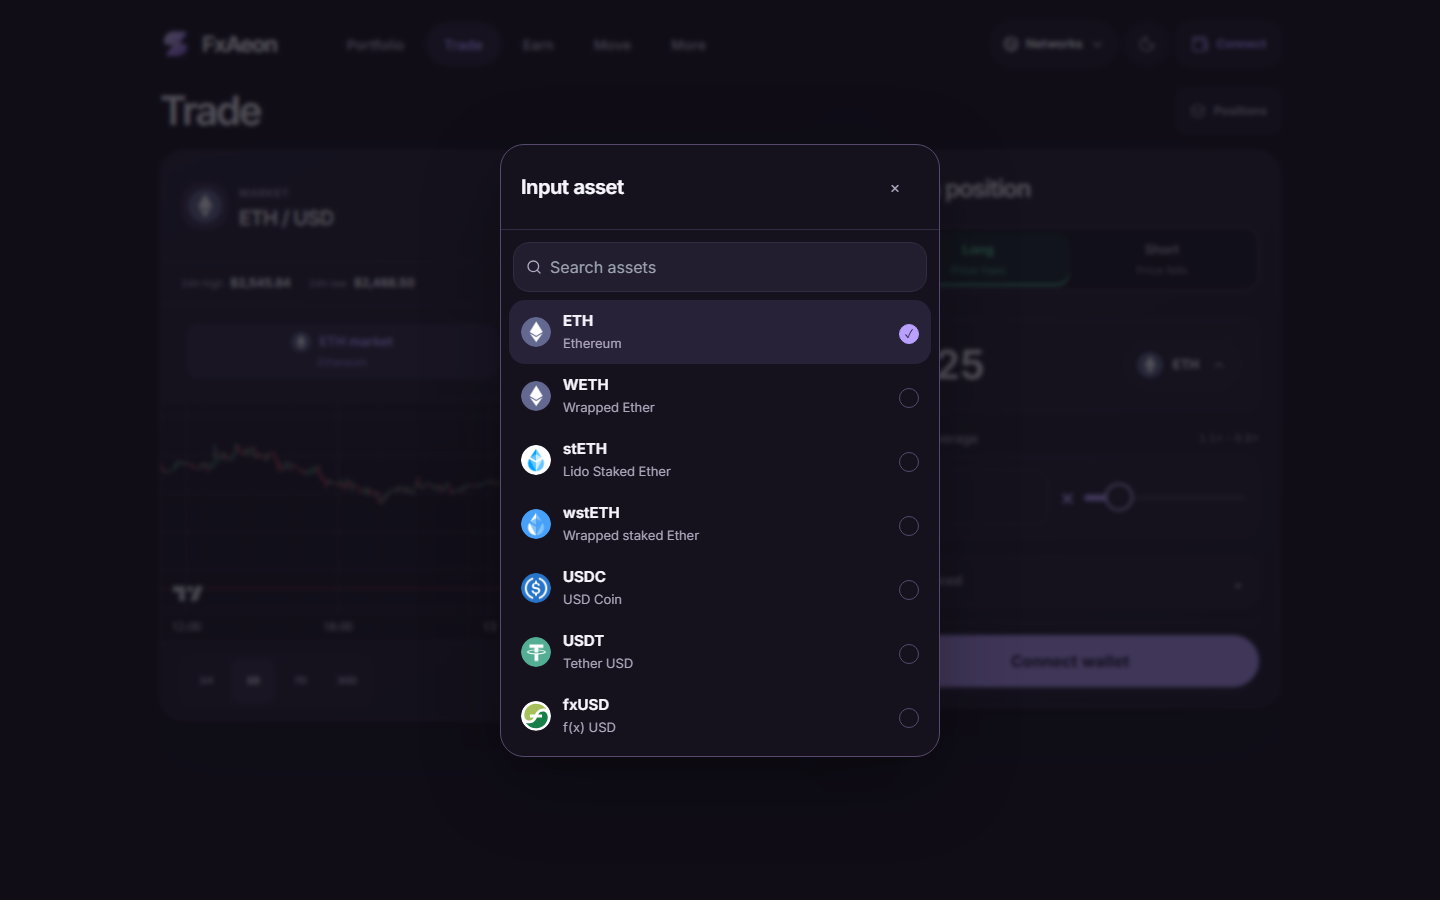
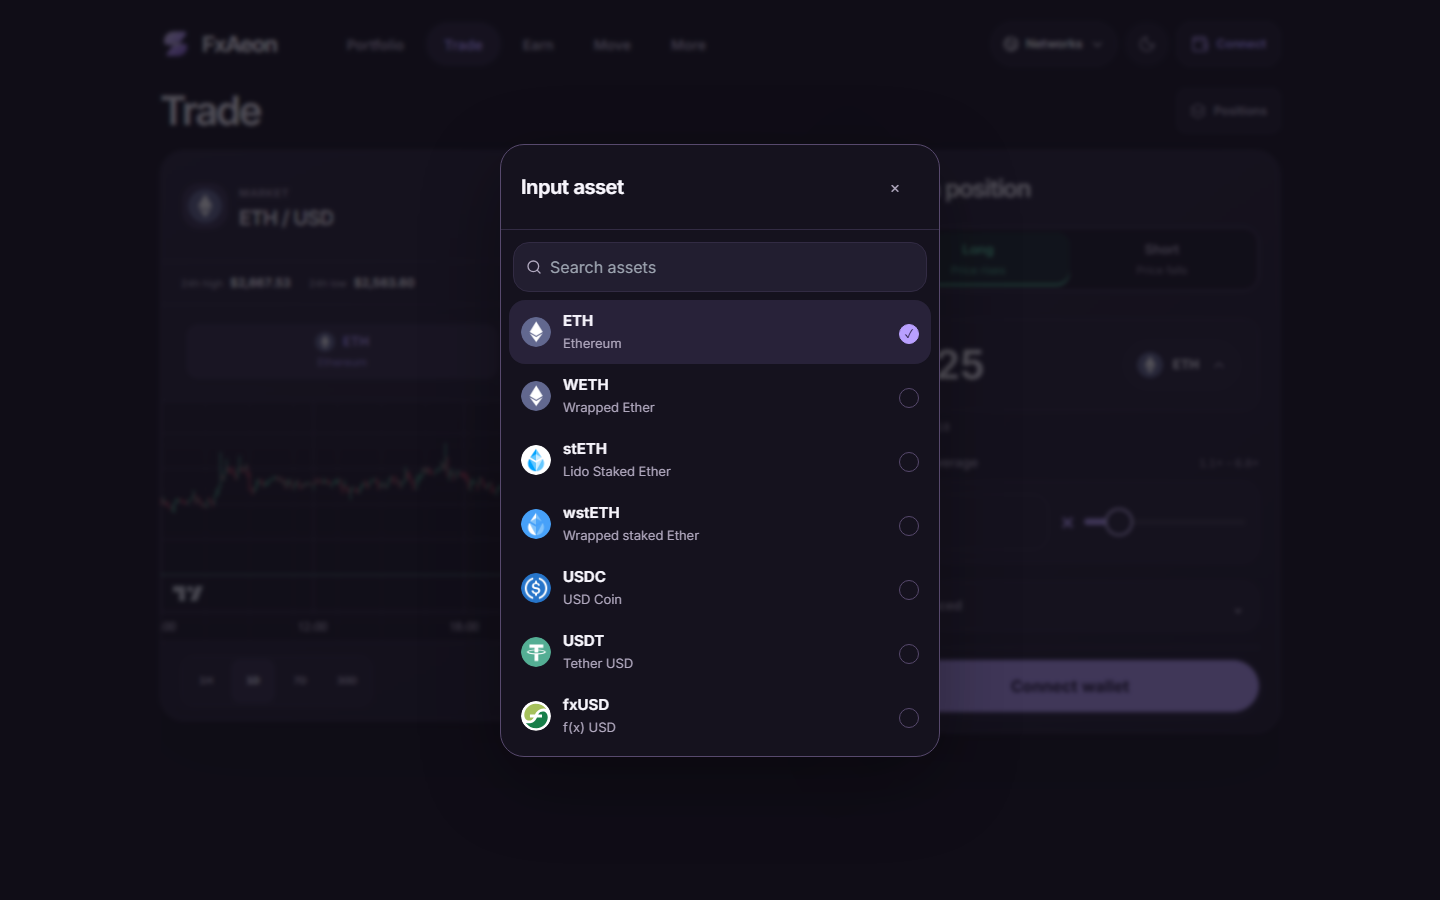
docs: refresh current app screenshots and release evidence

Changed region(s): [[0.6562, 0.6844, 0.875, 0.8089], [0.75, 0.5289, 0.7812, 0.5911]]

diff --git a/docs/testing.md b/docs/testing.md
@@ -28,17 +28,18 @@ prices/charts, while position ownership and accounting come from the fork. The
 standalone `pnpm docs:screenshots:positions` command is a separate Node-runner
 capture path; it proves rendered fork state, not browser transaction execution.
 
-Final verification completed across the aggregate run and a separate browser
-rerun. `%TEMP%/fxaeon-final-release-verify-latest.log` records `380` source/unit
-checks (`376` passed, `4` skipped) and passing build/export, typecheck, bundle,
-frontend-secret scan, audit, and landing checks (eight static plus 14
-theme/viewport states). Its initial browser stage reached `108/109` and exited
-`1`. After test-only hardening of stale-preview test scheduling, the focused
-harness passed `3/3` across two workers and the complete built-artifact browser
-suite passed `109/109` in 5.8 minutes; see
-`%TEMP%/fxaeon-final-109-e2e-identity.log`. Final lint passed with zero
-warnings. These results span separate runs; no single aggregate command exited
-`0`.
+Final verification passed on PR `#193` head
+`064229b6fb6640f9d16087ab48da13e85b05f356`: all six CI checks passed, including
+Client CI's full `pnpm verify` with exit code `0` and built-artifact browser
+E2E. The earlier local aggregate counted `380` source/unit checks (`376` passed,
+`4` skipped); its initial browser attempt reached `108/109` and exited `1` on
+stale-preview test scheduling. After test-only scheduling hardening, the
+focused harness passed `3/3` across two workers and the complete browser suite
+passed `109/109` in 5.8 minutes; see
+`%TEMP%/fxaeon-final-109-e2e-identity.log`. Full and production dependency
+audits report zero known vulnerabilities. Two pre-existing high-severity
+development-dependency findings were resolved by updating `js-yaml` to `4.3.2`
+and Miniflare's nested `sharp` to `0.35.4`. Final lint passed with zero warnings.
 Native Privy and Telegram flows, device-specific wallet behavior, and bridge
 destination delivery remain unverified.
 
@@ -196,7 +197,7 @@ The browser suite deliberately keeps accessibility checks dependency-light: rout
 
 ## Documentation captures
 
-The standard capture command covers the Portfolio app home, compatibility Portfolio route, Trade workspace, token picker, Move, the standalone login setup screen, disconnected Portfolio, and 390 × 844 mobile Trade/Portfolio views. Normal wallet connection, account switching, and disconnect remain in-place app-shell flows; the login capture is a dedicated setup-state reference. Mobile Portfolio uses the light theme; the other standard views use the Official violet theme. Start the static export locally, then run `pnpm docs:screenshots` in another terminal. `FX_SCREENSHOT_BASE_URL` can select a different loopback HTTP origin; it defaults to `http://localhost:4321`.
+The standard capture command covers app home, Trade, token picker, Move, the standalone login setup screen, the compatibility Portfolio route, Docs, and 390 × 844 mobile Trade/Portfolio views. Normal wallet connection, account switching, and disconnect remain in-place app-shell flows; the login capture is a dedicated setup-state reference. Mobile Portfolio uses the light theme; the other standard views use the Official violet theme. Start the static export locally, then run `pnpm docs:screenshots` in another terminal. `FX_SCREENSHOT_BASE_URL` can select a different loopback HTTP origin; it defaults to `http://localhost:4321`.
 
 ```powershell
 pnpm build
@@ -207,14 +208,12 @@ pnpm docs:screenshots
 
 The capture helper waits for configured login readiness and visible candle
 pixels, reports app runtime errors separately from external quote failures, and
-excludes the development toolbar only after page assertions. The latest
-recapture did not complete or promote: it saved Web, Trade, token-picker, Bridge,
-and login views, then Portfolio's two-sparkline readiness timed out after 60
-seconds on a reused page. A fresh isolated page displayed both charts without
-runtime errors, but a separate diagnostic observed a CoinGecko fallback CORS
-failure, so there is no clean nine-view result. The existing standard images
-and manifest remain unchanged; the landing's connected-position aliases are
-separate browser-fork evidence.
+excludes the development toolbar only after page assertions. The nine promoted
+captures were completed on 20 September 2026, each in a fresh page and browser
+context, using live external display data. The standard manifest records zero
+page, console, external-fallback, unclassified-console, and discovery errors.
+The images document rendered UI states; no wallet transaction was submitted.
+The landing's connected-position aliases are separate browser-fork evidence.
 
 Display prices and CoinGecko history are unmodified external data by default. Unavailable providers produce the application's honest unavailable states. For deterministic design regression only, set `FX_SCREENSHOT_MARKET_DATA=fixture`; every resulting image is visibly labelled **Illustrative prices & charts**, and the capture report records that mode. Synthetic display data is never execution, oracle, PnL, or return evidence.
 

diff --git a/docs/implementation-progress.md b/docs/implementation-progress.md
@@ -47,6 +47,16 @@ the fork snapshot. The run log is
 This proves the named funded fork lifecycle. It does not prove native Privy,
 Telegram, device-specific wallet behavior, or bridge destination delivery.
 
+### Standard UI documentation captures
+
+The nine standard screenshots in `docs/assets/` were refreshed on 20 September
+2026 at `2026-09-20T05:56:32Z`, using a fresh page and browser context for each
+view and live external display data. The manifest
+`docs/fixtures/standard-screenshot-manifest.json` records the routes, viewports,
+hashes, and zero page, console, fallback, or discovery errors. No wallet
+transaction was submitted. These screenshots document rendered UI states and
+are separate from the fork-backed position evidence below.
+
 ### Position documentation capture
 
 The promoted four-image capture is recorded in
@@ -55,13 +65,7 @@ The promoted four-image capture is recorded in
 visibly labelled illustrative display prices/charts. The four app screenshots
 and desktop/mobile landing aliases are hash-validated against that manifest.
 The images show fork state, not production balances or real market prices. The
-remaining standard UI captures predate the current domain split and are not
-current visual release evidence. The latest standard recapture was not
-promoted: five views were saved before Portfolio's two-sparkline readiness
-check timed out on a reused page. A fresh isolated page displayed both charts
-without runtime errors. Existing standard images and their manifest remain
-unchanged; the landing's connected-position aliases are separate, current fork
-captures.
+landing's connected-position aliases are separate, current fork captures.
 
 ### Configured Privy theme hydration
 
@@ -81,32 +85,25 @@ The focused Portfolio asset-summary tests pass `14/14`, covering partial
 subtotals, stale-value exclusion, pending reads, unknown values, and confirmed
 zero. Portfolio typecheck passes after the supported-value card prop-shape fix.
 
-Final verification completed across the aggregate run and a separate browser
-rerun. `%TEMP%/fxaeon-final-release-verify-latest.log` records `380` source/unit
-checks (`376` passed, `4` skipped) and passing build/export, typecheck, bundle,
-frontend-secret scan, audit, and landing checks (eight static plus 14
-theme/viewport states). Its initial browser stage reached `108/109` and exited
-`1`. After test-only hardening of stale-preview test scheduling, the focused
-harness passed `3/3` across two workers and the complete built-browser suite
-passed `109/109` in 5.8 minutes; see
-`%TEMP%/fxaeon-final-109-e2e-identity.log`. Final lint passed with zero
-warnings. These are results across separate runs, not one aggregate command
-with exit code `0`.
+Final verification passed on PR `#193` head
+`064229b6fb6640f9d16087ab48da13e85b05f356`: all six CI checks passed, including
+Client CI's full `pnpm verify` with exit code `0` and built-browser E2E. After
+test-only hardening of stale-preview scheduling, focused checks passed `3/3`
+and the complete browser suite passed `109/109` in 5.8 minutes; see
+`%TEMP%/fxaeon-final-109-e2e-identity.log`. Full and production dependency
+audits report zero known vulnerabilities. Two pre-existing high-severity
+development-dependency findings were resolved by updating `js-yaml` to `4.3.2`
+and Miniflare's nested `sharp` to `0.35.4`. Final lint passed with zero warnings.
 
 The protocol, Earn, stress, and browser-fork proofs are separately recorded
 above. The landing's final full-hero wash and card direction passed visual
-review; 14 theme/width states retained the same contrast minima. The standard
-nine-view screenshot refresh remains incomplete; see the recapture note above.
-The landing's connected-position aliases are separately current.
+review; 14 theme/width states retained the same contrast minima.
 
 ## Remaining verification gaps
 
 - Verify native Privy sign-in, Telegram seamless login and handoff, injected
   wallet confirmation, keyboard/device behavior, and bridge destination
   delivery in their supported hosts.
-- Complete and review the standard UI screenshot refresh before publication.
-  The promoted landing position captures are already tied to their manifest and
-  illustrative market-data mode.
 
 See [`testing.md`](testing.md) for commands and evidence boundaries and
 [`position-screenshot-fixture.md`](position-screenshot-fixture.md) for the

diff --git a/README.md b/README.md
@@ -80,7 +80,7 @@
   </tr>
 </table>
 
-Standard UI captures document prior builds. The four populated position screenshots were refreshed from the successful browser gate at block `25965421`; their [manifest](docs/fixtures/position-screenshot-manifest.json) records the rendered states and visibly labelled illustrative prices/charts. They show fork-backed positions, not production balances or real market prices. See [capture provenance](docs/position-screenshot-fixture.md). [Mobile positions](docs/assets/fxaeon-positions-mobile.png) · [Connected Trade](docs/assets/fxaeon-trade-connected.png).
+The nine standard UI captures were refreshed on 20 September 2026 using live external display data; their [manifest](docs/fixtures/standard-screenshot-manifest.json) records routes, viewports, hashes, and zero page, console, fallback, or discovery errors. They document rendered app states and do not prove wallet transactions. The four populated position screenshots are separate browser-fork evidence from block `25965421`; their [manifest](docs/fixtures/position-screenshot-manifest.json) records fork-backed positions and visibly labelled illustrative prices/charts. They show fork state, not production balances or real market prices. See [capture provenance](docs/position-screenshot-fixture.md). [Mobile positions](docs/assets/fxaeon-positions-mobile.png) · [Connected Trade](docs/assets/fxaeon-trade-connected.png).
 
 ### Capabilities
 
@@ -232,15 +232,15 @@ screenshots use visibly labelled illustrative display data; the separate
 node-runner command is available for rendering fork state without browser
 transaction execution.
 
-Final verification completed across separate runs. The aggregate log
-`%TEMP%/fxaeon-final-release-verify-latest.log` records `380` source/unit checks
-(`376` passed, `4` skipped) and passing build/export, typecheck, bundle,
-frontend-secret scan, audit, and landing checks. Its first browser stage reached
-`108/109` and exited `1`; after test-only hardening of stale-preview scheduling,
-the focused harness passed `3/3` and the full built-browser suite passed
-`109/109` in 5.8 minutes (`%TEMP%/fxaeon-final-109-e2e-identity.log`). Final lint
-passed with zero warnings. These results span separate runs; no single aggregate
-invocation exited `0`.
+Final verification passed on PR `#193` head
+`064229b6fb6640f9d16087ab48da13e85b05f356`: all six CI checks passed, including
+Client CI's full `pnpm verify` with exit code `0` and built-browser E2E. Test-only
+hardening of stale-preview scheduling passed focused checks `3/3` and
+the full browser suite `109/109` in 5.8 minutes
+(`%TEMP%/fxaeon-final-109-e2e-identity.log`). Full and production dependency
+audits report zero known vulnerabilities. Two pre-existing high-severity
+development-dependency findings were resolved by updating `js-yaml` to `4.3.2`
+and Miniflare's nested `sharp` to `0.35.4`. Final lint passed with zero warnings.
 
 Separately, the all-suite protocol, Earn, and stress run passed `4/4` tests
 with no skips in `%TEMP%/fxaeon-final-all-fork.log`; the browser-fork proof

diff --git a/docs/launch-readiness.md b/docs/launch-readiness.md
@@ -35,16 +35,16 @@ The owner has deferred the full legal policy and Terms until official support is
 - `node apps/landing/build.mjs` and `node --test apps/landing/test/static.test.mjs`
 - Local landing requests: home, robots, sitemap, document CSS and icon return 200; a missing path returns the custom 404; preview includes CSP.
 
-Final verification completed across the aggregate run and a separate browser
-rerun. `%TEMP%/fxaeon-final-release-verify-latest.log` records 380 source/unit
-checks (376 passed, four skipped), successful build/export, typecheck, bundle,
-secret scan, audit and landing checks (eight static plus 14 theme/viewport
-states). Its initial browser stage reached 108/109 and exited `1`. After
-test-only hardening of stale-preview test scheduling, the focused harness passed
-3/3 across two workers and the full built-browser suite passed 109/109 in 5.8
-minutes; see `%TEMP%/fxaeon-final-109-e2e-identity.log`. Final lint passed with
-zero warnings. Results span separate runs; no single aggregate exited `0`. The
-follow-up source secret scan covered 153 files with zero findings, and
+Final verification passed on PR `#193` head
+`064229b6fb6640f9d16087ab48da13e85b05f356`: all six CI checks passed, including
+Client CI's full `pnpm verify` with exit code `0` and built-browser E2E. After
+test-only hardening of stale-preview scheduling, the focused harness passed 3/3
+and the full browser suite passed 109/109 in 5.8 minutes; see
+`%TEMP%/fxaeon-final-109-e2e-identity.log`. Full and production dependency
+audits report zero known vulnerabilities. Two pre-existing high-severity
+development-dependency findings were resolved by updating `js-yaml` to 4.3.2
+and Miniflare's nested `sharp` to 0.35.4. Final lint passed with zero warnings.
+The follow-up source secret scan covered 153 files with zero findings, and
 launch/privacy/scanner tests passed 4/4. The final landing theme/motion
 iteration passed eight static tests and all 14 theme/width browser states,
 including the independent final composite contrast review.
@@ -52,6 +52,11 @@ Current landing captures are
 `artifacts/landing/landing-390.png`, `landing-1440.png`,
 `landing-light-390.png`, `landing-light-1440.png`, and the two
 `landing-hero-390-{dark,light}.png` crops.
+The nine standard app documentation screenshots were refreshed with live
+external display data and verified zero runtime, fallback, or discovery errors;
+their routes, viewports, and hashes are in
+[`standard-screenshot-manifest.json`](fixtures/standard-screenshot-manifest.json).
+They are rendered UI documentation, separate from the funded browser-fork proof.
 
 `artifacts/current-polish/full-report.json` records 180 app captures across 15
 routes, six viewport sizes, and disconnected/connected wallet states. There were

diff --git a/docs/brand-assets.md b/docs/brand-assets.md
@@ -76,12 +76,13 @@ do not redraw the mark.
 
 The standard UI set is in [assets/](assets/) and listed in
 [standard-screenshot-manifest.json](fixtures/standard-screenshot-manifest.json).
-These captures predate the current domain split and polish pass, so they are
-reference artwork rather than current release evidence:
+The nine views were refreshed on 20 September 2026 with a fresh page and browser
+context per frame, using live external display data. The manifest records their
+routes, viewports, hashes, and zero page, console, fallback, or discovery errors.
+They document rendered UI states; no wallet transaction was submitted.
 
-- `fxaeon-web.png` — public landing, 1440 × 900
-- `fxaeon-trade.png`, `fxaeon-token-picker.png`, `fxaeon-bridge.png`, and `fxaeon-login.png` — desktop app states, 1440 × 900
-- `fxaeon-portfolio.png` and `fxaeon-docs.png` — desktop app states, 1440 × 900
+- `fxaeon-web.png` — app home (`/`), 1440 × 900
+- `fxaeon-trade.png`, `fxaeon-token-picker.png`, `fxaeon-bridge.png`, `fxaeon-login.png`, `fxaeon-portfolio.png`, and `fxaeon-docs.png` — desktop app states, 1440 × 900
 - `fxaeon-trade-mobile.png` and `fxaeon-portfolio-mobile.png` — mobile states, 390 × 844
 
 The four populated position images (`fxaeon-portfolio-positions.png`,
@@ -94,13 +95,10 @@ use the all-four-position browser capture (`fxaeon-positions.png` and
 `fxaeon-positions-mobile.png`). These images show fork state, not production
 balances or actual market-price evidence; the
 landing hero wash and card direction passed visual review after 14 theme/width
-states with unchanged contrast minima. The latest standard recapture stopped
-without promotion after saving five views (web, Trade, token picker, bridge,
-and login). Portfolio's two-sparkline readiness timed out after 60 seconds on a
-reused page, though a fresh isolated page displayed both charts without runtime
-errors. Existing standard images and their manifest remain unchanged and
-predate the current domain split. The landing's connected-position aliases are
-separate, current browser-fork captures.
+states with unchanged contrast minima. These standard UI captures are separate
+from the four populated position images above, which use browser-fork state,
+illustrative display prices/charts, and their own manifest. The landing's
+connected-position aliases point to those separate browser-fork captures.
 
 ## Theme system
 
